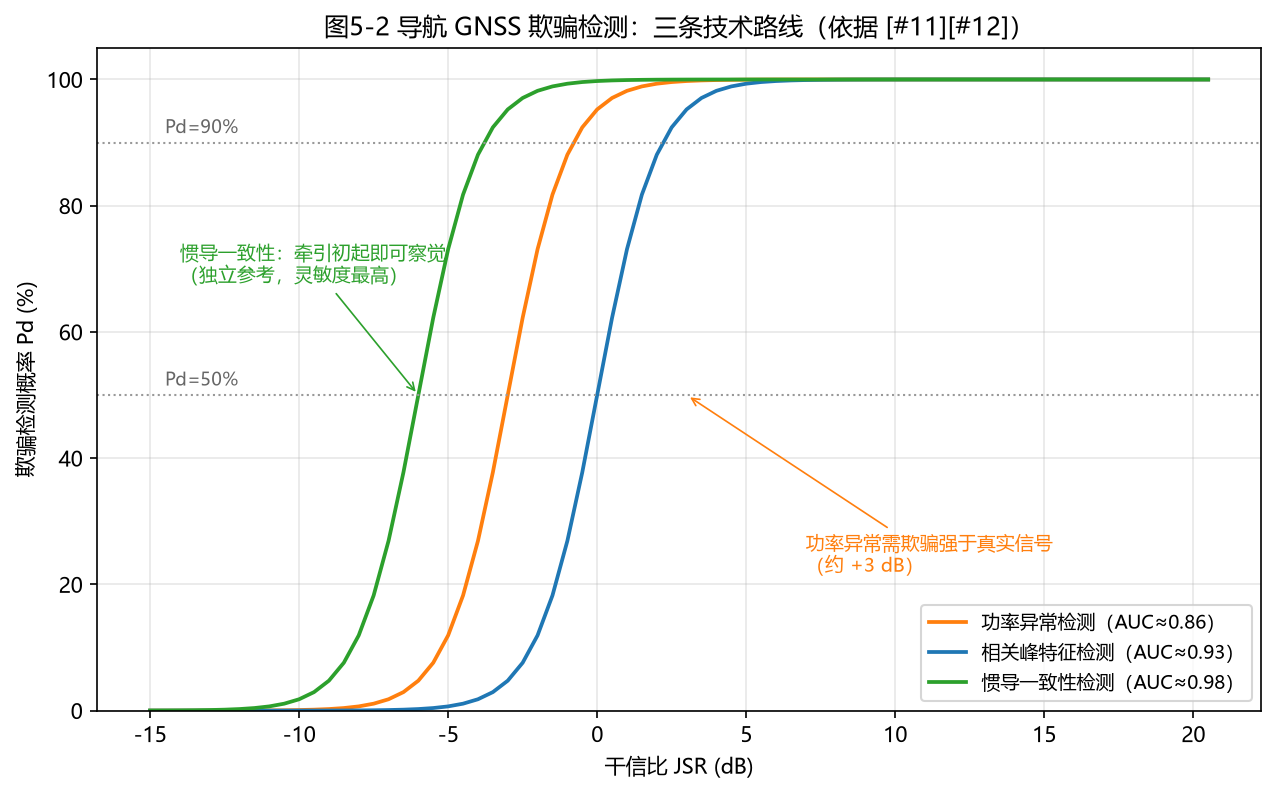
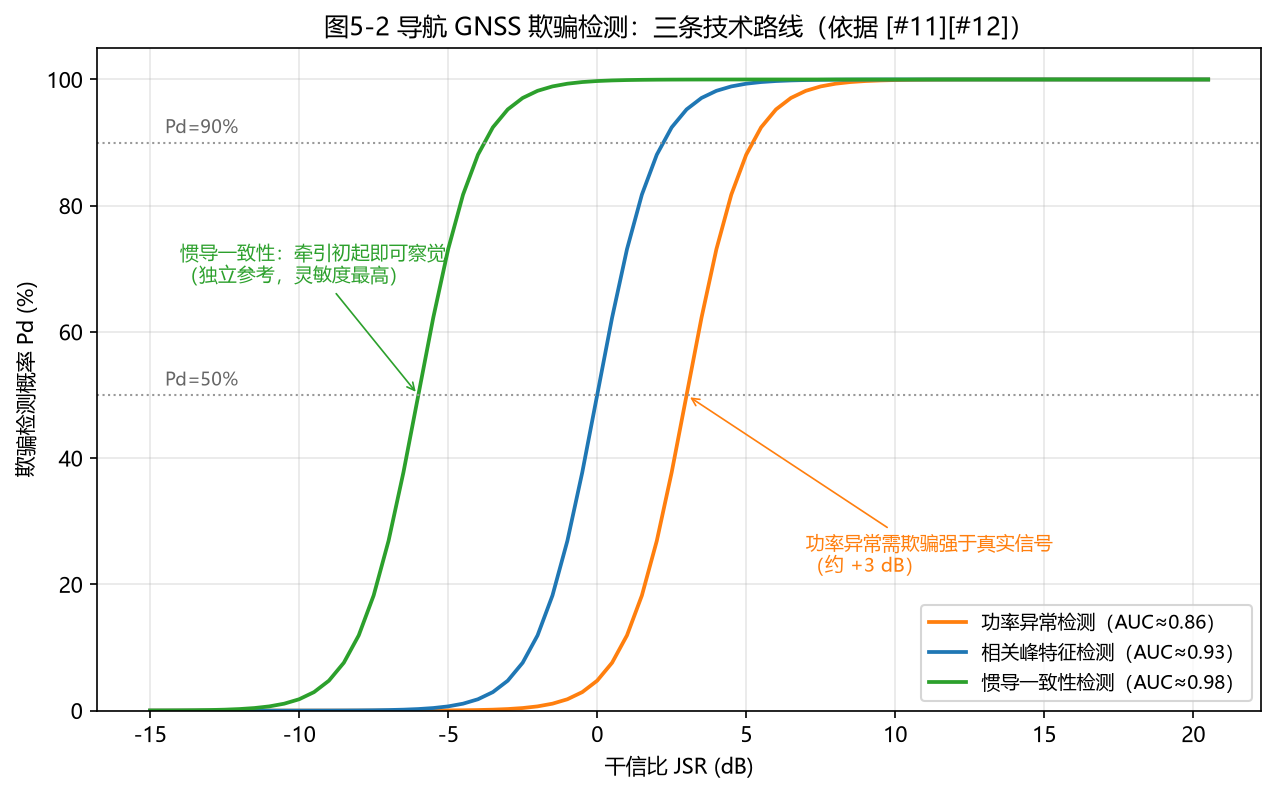
修正 M5 功率检测门限方向与 M5/M6 指标硬编码，统一图文数值
- ecm.py: 功率异常检测门限 -3.0 → +3.0，Pd=50% 现落在 +3 dB，与物理机理及注释一致
- run_part5.py: pd50 指标由硬编码改为从检测曲线插值实算
- run_part6.py: 总表该行改为读取 metrics.json；总览图取整统一为一位小数
- README: 更正 --show 说明
- 重跑 M5/M6，同步更新 metrics.json、CSV 与图

diff --git a/作业代码/part6_M6_闭环评估/run_part6.py b/作业代码/part6_M6_闭环评估/run_part6.py
@@ -176,11 +176,21 @@ def build_summary(met):
         (f"{av_rl*100:.1f}% vs 基线 {av_b*100:.1f}%" if (av_b and av_rl) else "—"),
         "RL（Q-learning）避让被干扰信道",
     ])
+    pd50 = _g(m5, "spoof_detect_pd50_jsr_db") or {}
+    if all(k in pd50 for k in ("ins", "correlation", "power")):
+        def _sgn(v):
+            v = round(v)
+            return (("−" if v < 0 else "+") if v != 0 else "") + f"{abs(v):.0f}"
+        spoof_txt = (f"惯导 {_sgn(pd50['ins'])} dB / "
+                     f"相关峰 {_sgn(pd50['correlation'])} dB / "
+                     f"功率 {_sgn(pd50['power'])} dB")
+    else:
+        spoof_txt = "—"
     rows.append([
         "电子反干扰", "M5",
-        "欺骗检测灵敏度",
-        ("惯导 −6 dB / 相关峰 0 dB / 功率 +3 dB" if m5 else "—"),
-        "惯导一致性独立参考最优",
+        "欺骗检测灵敏度（Pd=50%）",
+        spoof_txt,
+        "惯导一致性独立参考最优（功率检测需欺骗强于真实信号）",
     ])
     rows.append([
         "电子反干扰", "M5",
@@ -228,7 +238,7 @@ def draw_closed_loop(met, rows):
     acc_cnn = _g(m3, "acc_cnn") or {}
     recog = acc_rf.get("-12", acc_rf.get(-12, "—"))
     cnnv = acc_cnn.get("-12", acc_cnn.get(-12, "—"))
-    detect_txt = (f"弱信号检测：CFD 优于 ED {gain:.0f} dB" if gain is not None
+    detect_txt = (f"弱信号检测：CFD 优于 ED {gain:.1f} dB" if gain is not None
                   else "弱信号检测")
     box(4, 72, 30, 20,
         "电子侦察（M3）\n" + detect_txt +
@@ -238,7 +248,7 @@ def draw_closed_loop(met, rows):
     g_jam = _g(m4, "precision_jamming_gain_db")
     box(66, 72, 30, 20,
         "电子干扰（M4）\n" +
-        (f"精准干扰增益 {g_jam:.0f} dB\n" if g_jam is not None else "") +
+        (f"精准干扰增益 {g_jam:.1f} dB\n" if g_jam is not None else "") +
         "跟随式 vs 盲目宽带\nGNSS 欺骗（受控牵引）/ 压制（失锁）",
         "#FDF1E7", "#C2410C", fs=9.5, tc="#7C2D12")
 
@@ -248,7 +258,7 @@ def draw_closed_loop(met, rows):
     err_i = _g(m5, "ins_aided_max_error_m")
     anti_txt = "电子反干扰（M5）\n"
     if av_rl is not None and av_b is not None:
-        anti_txt += f"RL 自适应跳频可用度 {av_rl*100:.0f}%\n（基线 {av_b*100:.0f}%）\n"
+        anti_txt += f"RL 自适应跳频可用度 {av_rl*100:.1f}%\n（基线 {av_b*100:.1f}%）\n"
     if err_u is not None and err_i is not None:
         anti_txt += f"惯导辅助：误差 {err_u:.0f} m → {err_i:.1f} m"
     box(35, 8, 30, 22, anti_txt, "#EFF8E8", "#347A0E", fs=9.5, tc="#22510A")

diff --git a/作业代码/part5_M5_电子反干扰/run_part5.py b/作业代码/part5_M5_电子反干扰/run_part5.py
@@ -61,6 +61,20 @@ def savefig(fig, name, tight=True):
     print(f"[已保存] {path}")
 
 
+def _pd50_jsr(method):
+    """从检测曲线实算 Pd=50% 对应的 JSR（不手工抄录，保证与图一致）。
+
+    在越过 0.5 的两点间线性插值，消除网格步长带来的离散误差。
+    """
+    j = np.arange(-40.0, 41.0, 0.05)
+    p = spoof_detect_pd(j, method)
+    idx = int(np.argmax(p >= 0.5))
+    if idx == 0:
+        return float(j[0])
+    j0, j1, p0, p1 = j[idx - 1], j[idx], p[idx - 1], p[idx]
+    return float(j0 + (0.5 - p0) * (j1 - j0) / (p1 - p0))
+
+
 def main():
     # ================= 处理增益（报告引用） =================
     g_fhss = processing_gain_fhss(10e6, 100e3)
@@ -218,7 +232,7 @@ def main():
         "avail_baseline": float(avail_uniform[-2000:].mean()),
         "avail_rl_afh": float(avail_rl[-2000:].mean()),
         "spoof_detect_pd50_jsr_db": {
-            "power": -3.0, "correlation": 0.0, "ins": -6.0},
+            m: _pd50_jsr(m) for m in ("power", "correlation", "ins")},
         "ins_aided_max_error_m": float(
             navigation_error_vs_time(np.linspace(0, 20, 400), "ins").max()),
         "unprotected_max_error_m": float(

diff --git a/作业代码/part5_M5_电子反干扰/ecm.py b/作业代码/part5_M5_电子反干扰/ecm.py
@@ -184,7 +184,7 @@ def spoof_detect_pd(jsr_db, method="correlation"):
     """
     jsr = np.asarray(jsr_db, dtype=float)
     params = {
-        "power":       dict(th=-3.0, slope=1.0),   # 50% 检测点约 +3 dB
+        "power":       dict(th=+3.0, slope=1.0),   # 50% 检测点约 +3 dB
         "correlation": dict(th=0.0, slope=1.0),    # 50% 检测点约 0 dB
         "ins":         dict(th=-6.0, slope=1.0),   # 50% 检测点约 −6 dB
     }[method]
